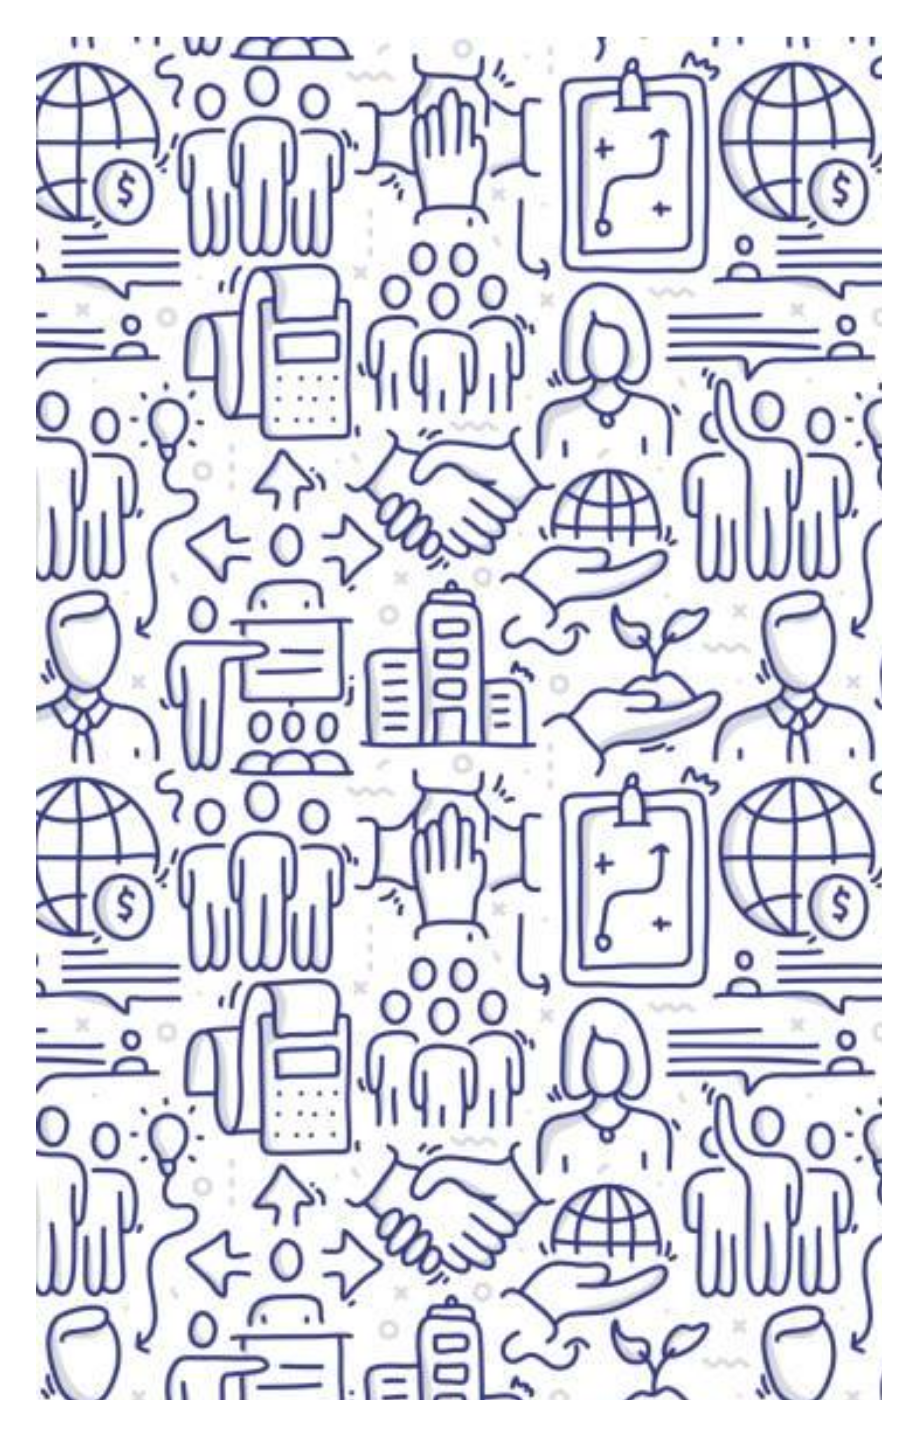
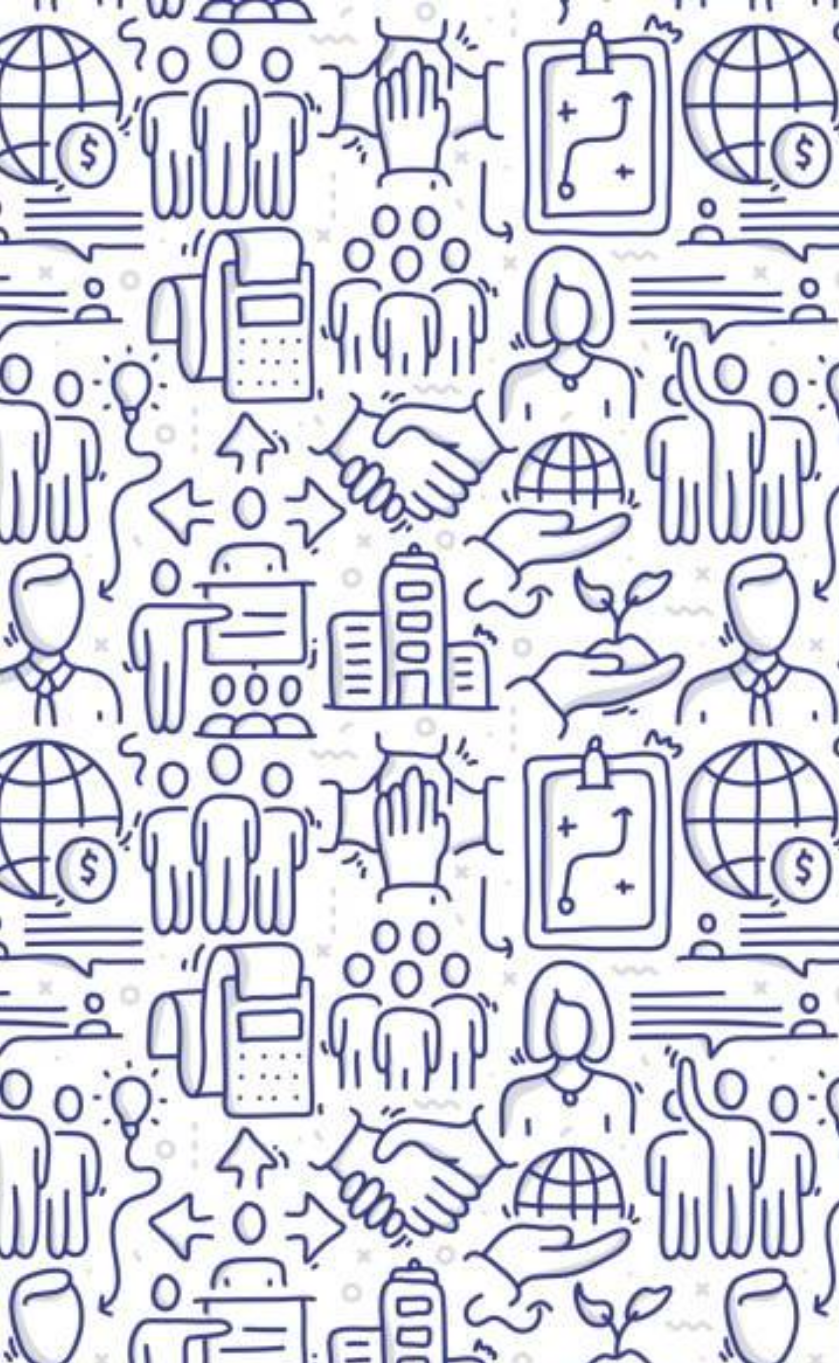
updatedLoading

diff --git a/src/App.css b/src/App.css
@@ -256,33 +256,29 @@ h2 {
 }
 
 .firstscreen img {
-  max-height: 250px;
+  max-height: 15rem;
   max-width: 300px;
   
 }
 .secondscreen {
   width: 100vw;
-  height: 100vh; 
+  height: 100vh;
+  display: flex; 
+  flex-direction: column;
+  justify-content: space-around;
 }
 .secondscreen__image{
-  display: flex;
-  align-items: center;
+  align-self: center;
   justify-content: center;
+  height: 17em;
 }
-.secondscreen img {
-max-height: 250px;
-  max-width: 300px;
-  margin-top: 30%;
-}
-.secondscreen__background {
-  background-image: url(./images/background3.png);
-  background-repeat: repeat;
-  background-size: cover;
-  height: 50vw;
-  width: 100vw;
-  background-position: bottom;
 
+.secondscreen__background {
+  justify-content: center;
+  align-self: center;
+  height: 16em;
 }
+
 @media screen and (max-width: 1440px) {
   .fixed_image {
   top: 110px;
@@ -290,6 +286,16 @@ margin-right: 460px;
   width: 100px;
 
   }
+
+/* .secondscreen__image{
+  align-self: center;
+  justify-content: center;
+  height: 1em;
+} */
+
+.secondscreen__background {
+  height: 24em;
+}
 }
 @media screen and (max-width: 1024px) {
   .fixed_image {
@@ -297,6 +303,9 @@ margin-right: 460px;
 margin-right: 180px;
   width: 100px;
 
+  }
+  .secondscreen__background {
+    height: 22em;
   }
 }
 
@@ -307,6 +316,9 @@ margin-right: 180px;
     top: 110px;
     margin-right: 379px;
     width: 100px;
+}
+.secondscreen__background {
+  height: 20em;
 }
 }
 
@@ -323,6 +335,9 @@ margin-right: 180px;
 margin-right: 180px;
   width: 100px;
 
+  }
+  .secondscreen__background {
+    height: 18em;
   }
   .item-a {
     justify-self: flex-start;

diff --git a/src/App.js b/src/App.js
@@ -1,4 +1,4 @@
-import { useEffect } from "react";
+import { useEffect, useState } from "react";
 import { BrowserRouter } from "react-router-dom";
 import "./App.css";
 import FirstScreen from "./components/FirstScreen";
@@ -6,15 +6,49 @@ import SecondScreen from "./components/SecondScreen";
 import Home from "./Pages/Home";
 
 function App() {
+  const [landing, setLanding ] =  useState(false)
+  const [secondLand, setSecondLand ] = useState(false)
+  const [seconds, setSeconds ] = useState(8)
+
+
   useEffect(() =>{
+
+    const timer = seconds > 0 && setInterval(() => setSeconds(seconds - 1), 1000);
+    if(seconds === 5){
+      setLanding(true)
+    }
+    else if(seconds === 0){
+      setSecondLand(true)
+      // setSecondLand(false)
+    }
     
-  }, [])
-  return (
-    <BrowserRouter>
-      
-      <Home />
-    </BrowserRouter>
-  );
+    return () => clearInterval(timer);
+    
+  }, [seconds])
+
+  if(landing === false){
+    return (
+      <BrowserRouter>
+        <FirstScreen />
+      </BrowserRouter>
+    )
+  }
+  else if(landing === true && secondLand === false){
+    return (
+      <BrowserRouter>
+        <SecondScreen />
+      </BrowserRouter>
+    )
+  }
+  else if(landing === true && secondLand === true){
+
+    return (
+      <BrowserRouter>
+        
+        <Home />
+      </BrowserRouter>
+    );
+  }
 }
 
 export default App;

diff --git a/public/index.html b/public/index.html
@@ -2,14 +2,14 @@
 <html lang="en">
   <head>
     <meta charset="utf-8" />
-    <link rel="icon" href="%PUBLIC_URL%/favicon.ico" />
+    <link rel="icon" href="%PUBLIC_URL%/logo.png" />
     <meta name="viewport" content="width=device-width, initial-scale=1" />
     <meta name="theme-color" content="#000000" />
     <meta
       name="description"
       content="Web site created using create-react-app"
     />
-    <link rel="apple-touch-icon" href="%PUBLIC_URL%/logo192.png" />
+   <!-- <link rel="apple-touch-icon" href="%PUBLIC_URL%/logo192.png" /> -->
     <!--
       manifest.json provides metadata used when your web app is installed on a
       user's mobile device or desktop. See https://developers.google.com/web/fundamentals/web-app-manifest/

diff --git a/src/components/SecondScreen.js b/src/components/SecondScreen.js
@@ -1,12 +1,15 @@
 import React from 'react'
 import logo from '../images/logo2.png'
+import people from "../images/background3.png";
 const SecondScreen = () => {
     return (
       <div className="secondscreen">
-       <div className='secondscreen__image'>
-        <img src={logo} alt="Logo" />
-        </div>
-        <div className="secondscreen__background"></div>
+       {/* <div className='secondscreen__image'> */}
+          <img className='secondscreen__image' src={logo} alt="Logo" />
+        {/* </div> */}
+        {/* <div className="secondscreen__background"> */}
+          <img className="secondscreen__background" src={people} alt="Logo" />
+        {/* </div> */}
       </div>
     );
 }
